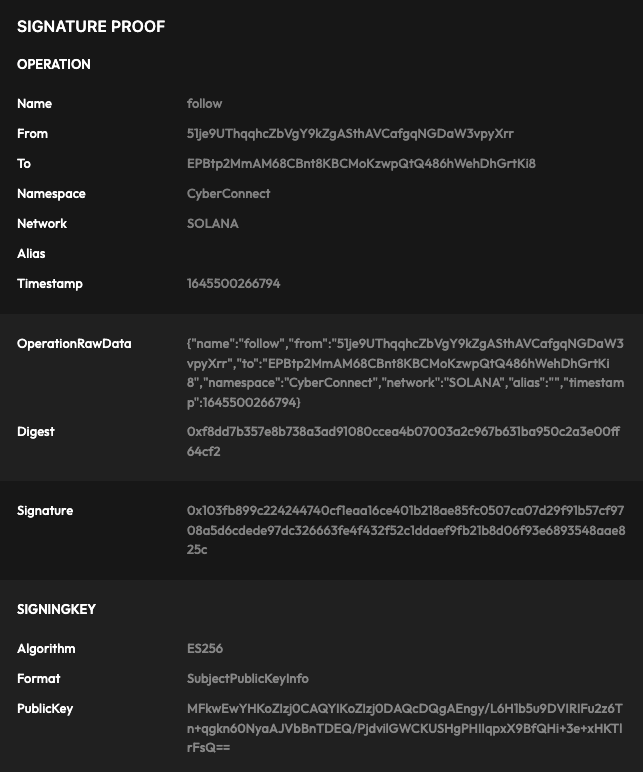
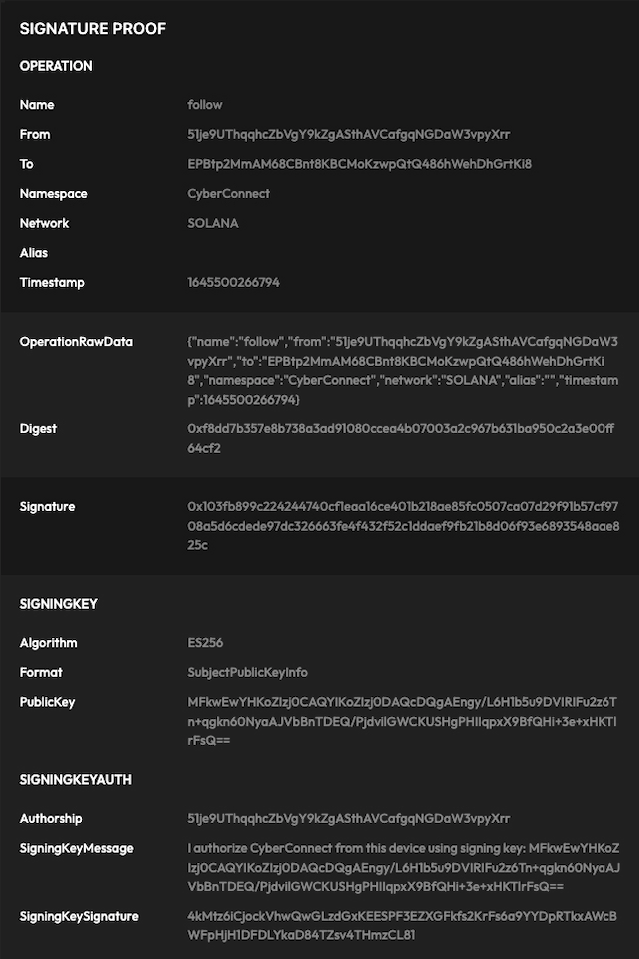
feat: sync proof from Notion

diff --git a/docs/Apis/proof.md b/docs/Apis/proof.md
@@ -4,76 +4,29 @@ id: proof
 
 # Proof of Connection
 
-In order to provide **data verifiability** and **higher security**, CyberConnect adopts a standardized signing key generation and storage, connection proof generation and verification scheme. We call this scheme as Proof of Connection(PoC).
-In this page, we will in describe the design and processes of proof generation and verification. In the end, there will be an example for you.
-
-## PoC Design
-
 CyberConnect protocol commits to providing a secure and user-friendly process for generating connections between addresses.
 
-For the first time use, a signing key will be randomly generated from the client side, authorized through MetaMask popup to identify the user and complete signing. Then, the public key of this signing key will be uploaded to the CyberConnect Indexer for storage and verification.
+In order to provide **data verifiability** and **higher security**, CyberConnect adopts a standardized signing key generation and storage, connection proof generation, and verification scheme, which is called Proof of Connection (PoC).
 
-By following this procedure, the number of times the primary key used is reduced to a minimum, and hence to improve the security.
+In this page, we use an example from [CyberConnect Solana Page](http://sol.cyberconnect.me) to describe the whole process in three parts: key generation, proof generation, and proof verification. The following picture is an example of a complete proof.
 
-The complete process consists of three parts: [Key Generation](./proof#key-generation), [Proof Generation](./proof#proof-generation) and [Proof Verification](./proof#proof-verification).
+![](../../static/img/tutorial/proof.png)
 
 ## Key Generation
 
-First of all, there are some definitions for the description below:
+When a user is going to mutate a connection status (e.g. connect to someone), and there is no existing signing key or all signing keys existing have expired, the client-side application will initiate the Key Generation process.
 
-```
-A = WalletAddress
+An ES256 key pair will be randomly generated from the client side. In order to identify the user, the signing key will be authorized through the MetaMask popup. In the example, the data of “SIGNINGKEY” is created in this step.
 
-SK = SigningKey
+![](../../static/img/tutorial/proof1.png)
 
-SKS = SigningKeySiganture
-
-SKM = SigningKeyMessage
-
-S = Signature
-
-P = Proof
-
-B = content json blob
-
-D = content json blob digest
-```
-
-### Frontend Workflow
-
-**The following steps happen on the frontend**
-
-**Step 1 -** When a user meets the first and one of the second and third requirement below, a signing key pair **SK** will be generated:
-
-1. the user is going to have some mutations (e.g., follow/unfollow/setAlias)
-2. local storage has no existed signing key
-3. all existed signing keys expired
-
-**Step 2 -** A signing message **SKM** which also includes **SK** will be constructed:
-
-```javascript
-"signingKeyMessage":"I authorize publishing on mirror.xyz from this device using:\n{\"crv\":\"P-256\",\"ext\":true,\"key_ops\":[\"verify\"],\"kty\":\"EC\",\"x\":\"srzvlrXFj1r0w7kyIUj-eppIodL1xwZfUC_RFweIzqw\",\"y\":\"Q9EEahZLd7SUrmIdKP5245D6IoD8XAtb-_Iw7xDp-DA\"}"
-```
-
-**Step 3 -** MetaMask pops up to ask user with address **A** to sign the **SKM** to produce signature **SKS**.
-
-**Step 4 -** Register **SK** to **A**'s keychain by calling backend - **registerKey/auth(A, SKM, SKS)**
-
-**Step 5 -** The Application stores _SK_ private key into local storage if previous step gets a successful response
-
-**The following steps happen on the indexer backend**
-
-**Step 1 -** The indexer gets **SK** public key from **SKM**
-
-**Step 2 -** The indexer verifies if **SKS** is valid
-
-**Step 3 -** The indexer adds **SK** and **SKM** to _A’s keychain_ with a expiration time
+The public key of the signing key pair will be uploaded and stored in the CyberConnect Indexer with “SIGNINGKEYAUTH” info. This is for the indexer to examine that the message sender is the address user. The private key of the signing key pair will be safely stored in local LevelDB after encryption.
 
 ## Proof Generation
 
-**The following steps happen on the frontend**
+After generating a valid key, the process of generating a proof begins.
 
-**Step 1 -** The frontend constructs a JSON blob **B** to describe the operation:
+The mutation operation of the user can be parsed as a format of JSON, for example:
 
 ```json
 {
@@ -81,80 +34,62 @@ D = content json blob digest
   "to": "0x6eB98FC865C30Be5e8c10902CA84De06665573C0",
   "operation": "follow",
   "namespace": "CyberConnect",
-  "timestampe": "1642414321"
+  "timestamp": "1642414321"
 }
 ```
 
-**Step 2 -** Hash **B** to get a digest **D**
+We get a digest by doing hash operation:
 
-```json
-{
-  "digest": "h6DcpvucQHbAWVlGQ_TdG3XqmURRt9keHC1KsAJ1lvM"
-}
-```
+$$
+Digest = Hash(OperationRawData)
+$$
 
-**Step 3 -** Use **SK** to sign **D** and send signature **S** to backend by calling the relative mutation endpoint (e.g., **follow/unfollow(A, SK, S, B, D)**)
+Then, upload JSON blob, digest, and public key of signing key pair to the CyberConnect Indexer.
 
-**The following steps happen on the indexer backend**
+![](../../static/img/tutorial/proof2.png)
 
-**Step 1 -** Verify that **SK** is not expired and belongs to **A**
+After receiving the struct, the indexer validates the signing key, digest, timestamp, and operation that the user wants to execute.
 
-**Step 2 -** Verify **B→D** mapping and **S** is valid
-
-**Step 3 -** Verify operation from **B** is valid (e.g. timestamp > lastModifiedAt) against MySQL database.
-
-**Step 4 -** Construct a proof string **P = (A, SK, SKM, B, D, S)**
-
-For follow and unfollow, the format would be:
-
-```
-{
-  "name": "follow"/"unfollow" string
-  "from": string
-  "to": string
-  "namespace": string
-  "network": "ETH"/"SOLANA" string
-  "alias": ""
-  "timestamp": int
-}
-```
-
-For example,
-
-```json
-{
-  "operation": "{\"name\":\"follow\",\"from\":\"0xbd358966445e1089e3AdD528561719452fB78198\",\"to\":\"0xb36b8Df2A1164c9f6bC34C7802046F3695426CdB\",\"namespace\":\"CyberConnect\",\"network\":\"ETH\",\"alias\":\"\",\"timestamp\":1642670883362}",
[2 lines of base64/hex data omitted]
-  "signingKey": {
[1 lines of base64/hex data omitted]
-    "format": "SubjectPublicKeyInfo",
-    "algorithm": "ES256"
-  },
-  "signingKeyAuth": {
-    "authorship": "0xbd358966445e1089e3add528561719452fb78198",
[1 lines of base64/hex data omitted]
-    "signingKeyMessage": "I authorize CyberConnect from this device using signing key:\nMFkwEwYHKoZIzj0CAQYIKoZIzj0DAQcDQgAEGYincB66BCRjXptu6+QrFVCMV/sklFrH/lT3OBepjItjlf61zUfYok/5oGdPWbqD1/vq9xaI9TzKP8fB5fh2hw=="
-  }
-}
-```
-
-**Step 5 -** Store or update Proof **P** to user’s connection table.
+If all inspections pass, a proof will be generated to authenticate this operation.
 
 ## Proof Verification
 
-While the key generation and proof generation steps happen on the user's frontend and the CyberConnect Indexer backend, proof can be retrieved through [Connection](./get_connection) API and is verifiable by any third party.
+Any proof from CyberConnect Proof of Connection can be validated by any third party. The verification of a proof takes three steps:
 
-After a proof is retrieved, the verification should contain three steps:
+### Step 1 - Check SIGNINGKEYAUTH
 
-**Step 1 -** Verify **SK** is authorized by the user. In specific, examine **signingKeySignature** in **signingKeyAuth**.
+To validate a proof, first of all, you need to ensure the signing key has been authorized by the user’s wallet. You should validate if the signature in the proof matches the signature calculated on your end based on the user’s address and SigningKeyMessage.
 
-**Step 2 -** Verify **operation** is signed by the signing key. In specific, examine **digest**.
+$$
+Input: calculatedSigningKeySig(userAddr, signingKeyMessage), signingKeySig
+$$
 
-**Step 3 -** Verify **operation** matches the connection that you are verifying with. In specific, examine **operation**.
+$$
+Check: calculatedSigningKeySig == signingKeySig
+$$
 
-## Example
+### Step 2 - Check Operation Signature
 
-[CyberConnect Official Solana Webpage](https://sol.cyberconnect.me/) provides an implementation of PoC and a display of proof data. Connect to your Solana wallet and follow someone on the site. You can see a your connection proofs like this image:
+If the result from Step 1 is correct, then, use the signing key provided in the proof, check whether the signature calculated by you matches the one in the proof.
 
-![Proof](../../static/img/tutorial/proof.png)
+$$
+Input: calculatedSignature(signingKey, OperationRawData), signature
+$$
+
+$$
+Check: calculatedSignature == signature
+$$
+
+### Step 3 - Check OperationRawData
+
+Finally, if the first two steps pass, check if the operation described in the OperationRawData matches the operation that you are validating.
+
+$$
+Input: \newline providedOperation\ \{name, from, to, namespace, network\}, \newline validatingOperation\ \{name, from, to, namespace, network\}
+$$
+
+$$
+Check: providedOperation\ and\ validatingOperation\ matches\ in\ each\ field
+$$
+
+If all three checks are passed, the operation is authenticated.

diff --git a/docs/Apis/get_connection.md b/docs/Apis/get_connection.md
@@ -4,7 +4,7 @@ id: get_connection
 
 # Get Connection
 
-Connection API is used for querying the detail fields of connections between a given address and a non-empty address list.
+Connection API is used to query fields of connections between a given address and another address or a list of other addresses (5000 max).
 
 ## Structure
 
@@ -14,27 +14,109 @@ The general pattern of Connection query is:
 connections(fromAddr String!, toAddrList [String!]!, network Network) [Connection!]!
 ```
 
-| Field        | Type       | Description                                                                                                      |
-| ------------ | ---------- | ---------------------------------------------------------------------------------------------------------------- |
-| `fromAddr`   | String!    | The source address that you want to query connections with                                                       |
-| `toAddrList` | [String!]! | A list of addresses that have connection with `fromAddr`                                                         |
-| `network`    | Network    | The blockchain network for the querying address. Default is `ETH`. you can also use `SOLANA` for Solana network  |
+| Field        | Type       | Description                                                                                                                      |
+| ------------ | ---------- | -------------------------------------------------------------------------------------------------------------------------------- |
+| `fromAddr`   | String!    | The source address that you want to query connections about                                                                      |
+| `toAddrList` | [String!]! | A string list of addresses that you want to check if they have connections with `fromAddr`                                       |
+| `network`    | Network    | The blockchain network of the address you are querying about. Default is `ETH`. you can also use `SOLANA` for the Solana network |
 
-With correct inputs, you can get a `Connections` object as a list of connection data, consisting following fields:
+With correct inputs, you will get a list of `Connection` objects, consisting of the following fields:
 
-| Field           | Type          | Description                                                                                                                |
-| --------------- | ------------- | -------------------------------------------------------------------------------------------------------------------------- |
-| `fromAddr `     | String!       | The source address that you want to query connections with                                                                 |
-| `toAddr`        | String!       | An address that is given in `toAddrList`                                                                                   |
-| `followStatus ` | FollowStatus! | The following and followed relationships between `fromAddr` and `toAddr`                                                   |
-| `namespace`     | String!       | The namespace of this connection                                                                                           |
-| `alias`         | String!       | The alias set by the `fromAddress`                                                                                         |
-| `network`       | Network!      | The network that is given as the querying parameter                                                                        |
-| `createdAt`     | String!       | The creation time of this connection                                                                                       |
-| `updatedAt`     | String!       | The latest update time of this connection                                                                                  |
-| `proof`         | String!       | The proof of this connection. Please see [CyberConnect Proof of Connection](./proof) for detail design and implementation  |
+| Field           | Type          | Description                                                                                                               |
+| --------------- | ------------- | ------------------------------------------------------------------------------------------------------------------------- |
+| `fromAddr `     | String!       | The source address that you want to query connections about                                                               |
+| `toAddr`        | String!       | An address that is given in `toAddrList`                                                                                  |
+| `followStatus ` | FollowStatus! | The following and followed relationships between `fromAddr` and `toAddr`                                                  |
+| `namespace`     | String!       | The namespace of this connection                                                                                          |
+| `alias`         | String!       | The alias set by the `fromAddress` for `toAddr`.                                                                          |
+| `network`       | Network!      | The network that is given as the querying parameter                                                                       |
+| `createdAt`     | String!       | The creation time of this connection                                                                                      |
+| `updatedAt`     | String!       | The latest update time of this connection                                                                                 |
+| `proof`         | String!       | The proof of this connection. Please see [CyberConnect Proof of Connection](./proof) for detail design and implementation |
 
-## Example
+For `followStatus`, there will be two boolean variables: `isFollowed` and `isFollowing`.
+
+If `isFollowed` is true, `toAddr` has followed `fromAddr`.
+
+If `isFollowing` is true, `fromAddr` has followed `toAddr`.
+
+## Examples
+
+### Fetch Proof Example
+
+To fetch proof data, simply run:
+
+```graphql
+query ProofQuery {
+  connections(
+    fromAddr: "51je9UThqqhcZbVgY9kZgASthAVCafgqNGDaW3vpyXrr"
+    toAddrList: ["EPBtp2MmAM68CBnt8KBCMoKzwpQtQ486hWehDhGrtKi8"]
+    network: SOLANA
+  ) {
+    fromAddr
+    toAddr
+    proof
+  }
+}
+```
+
+The expected return would be:
+
+```json
+{
+  "data": {
+    "connections": [
+      {
+        "fromAddr": "51je9UThqqhcZbVgY9kZgASthAVCafgqNGDaW3vpyXrr",
+        "toAddr": "EPBtp2MmAM68CBnt8KBCMoKzwpQtQ486hWehDhGrtKi8",
+        "proof": "{\"operation\":\"{\\\"name\\\":\\\"follow\\\",\\\"from\\\":\\\"51je9UThqqhcZbVgY9kZgASthAVCafgqNGDaW3vpyXrr\\\",\\\"to\\\":\\\"EPBtp2MmAM68CBnt8KBCMoKzwpQtQ486hWehDhGrtKi8\\\",\\\"namespace\\\":\\\"CyberConnect\\\",\\\"network\\\":\\\"SOLANA\\\",\\\"alias\\\":\\\"\\\",\\\"timestamp\\\":1645500266794}\",\"digest\":\"0xf8dd7b357e8b738a3ad91080ccea4b07003a2c967b631ba950c2a3e00ff64cf2\",\"signature\":\"0x103fb899c224244740cf1eaa16ce401b218ae85fc0507ca07d29f91b57cf9708a5d6cdede97dc326663fe4f432f52c1ddaef9fb21b8d06f93e6893548aae825c\",\"signingKey\":{\"publicKey\":\"MFkwEwYHKoZIzj0CAQYIKoZIzj0DAQcDQgAEngy/L6H1b5u9DVIRIFu2z6Tn+qgkn60NyaAJVbBnTDEQ/PjdvilGWCKUSHgPHIIqpxX9BfQHi+3e+xHKTlrFsQ==\",\"format\":\"SubjectPublicKeyInfo\",\"algorithm\":\"ES256\"},\"signingKeyAuth\":{\"authorship\":\"51je9UThqqhcZbVgY9kZgASthAVCafgqNGDaW3vpyXrr\",\"signingKeySignature\":\"4kMtz6iCjockVhwQwGLzdGxKEESPF3EZXGFkfs2KrFs6a9YYDpRTkxAWcBWFpHjH1DFDLYkaD84TZsv4THmzCL81\",\"signingKeyMessage\":\"I authorize CyberConnect from this device using signing key:\\nMFkwEwYHKoZIzj0CAQYIKoZIzj0DAQcDQgAEngy/L6H1b5u9DVIRIFu2z6Tn+qgkn60NyaAJVbBnTDEQ/PjdvilGWCKUSHgPHIIqpxX9BfQHi+3e+xHKTlrFsQ==\"}}"
+      }
+    ]
+  }
+}
+```
+
+### Fetch followStatus Example
+
+To fetch followStatus, run:
+
+```graphql
+query FollowStatusQuery {
+  connections(
+    fromAddr: "51je9UThqqhcZbVgY9kZgASthAVCafgqNGDaW3vpyXrr"
+    toAddrList: ["EPBtp2MmAM68CBnt8KBCMoKzwpQtQ486hWehDhGrtKi8"]
+    network: SOLANA
+  ) {
+    fromAddr
+    toAddr
+    followStatus {
+      isFollowed
+      isFollowing
+    }
+  }
+}
+```
+
+The result should be:
+
+```json
+{
+  "data": {
+    "connections": [
+      {
+        "fromAddr": "51je9UThqqhcZbVgY9kZgASthAVCafgqNGDaW3vpyXrr",
+        "toAddr": "EPBtp2MmAM68CBnt8KBCMoKzwpQtQ486hWehDhGrtKi8",
+        "followStatus": {
+          "isFollowed": false,
+          "isFollowing": true
+        }
+      }
+    ]
+  }
+}
+```
+
+### Full Example
 
 Try this query in the playground:
 
